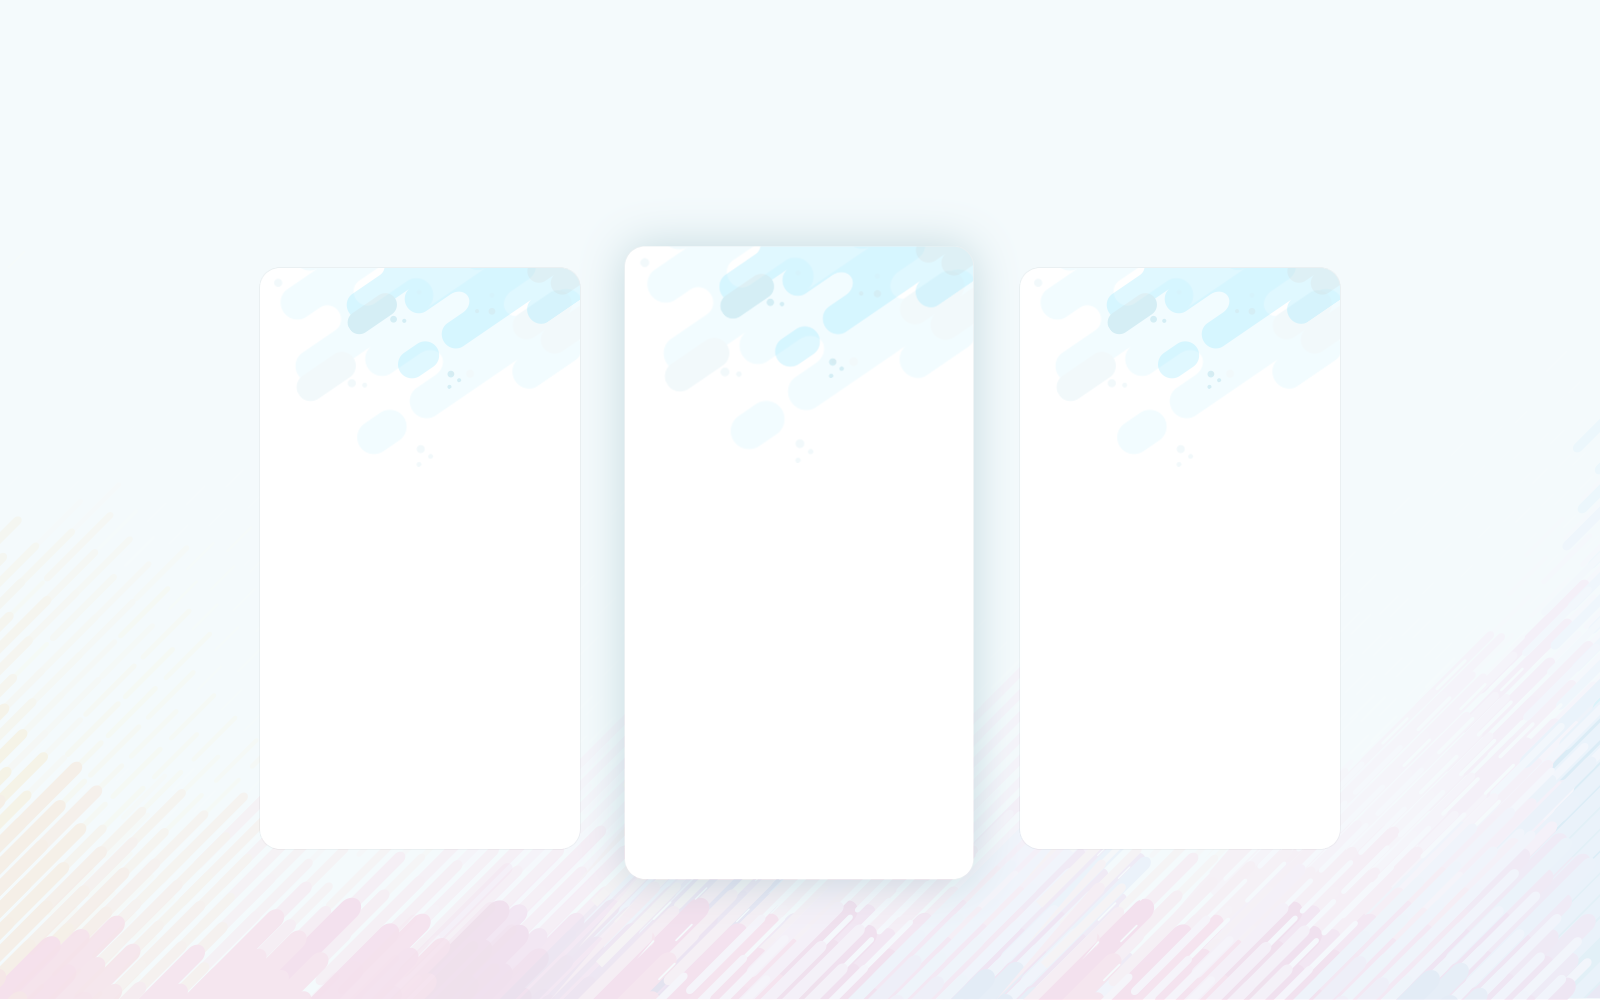
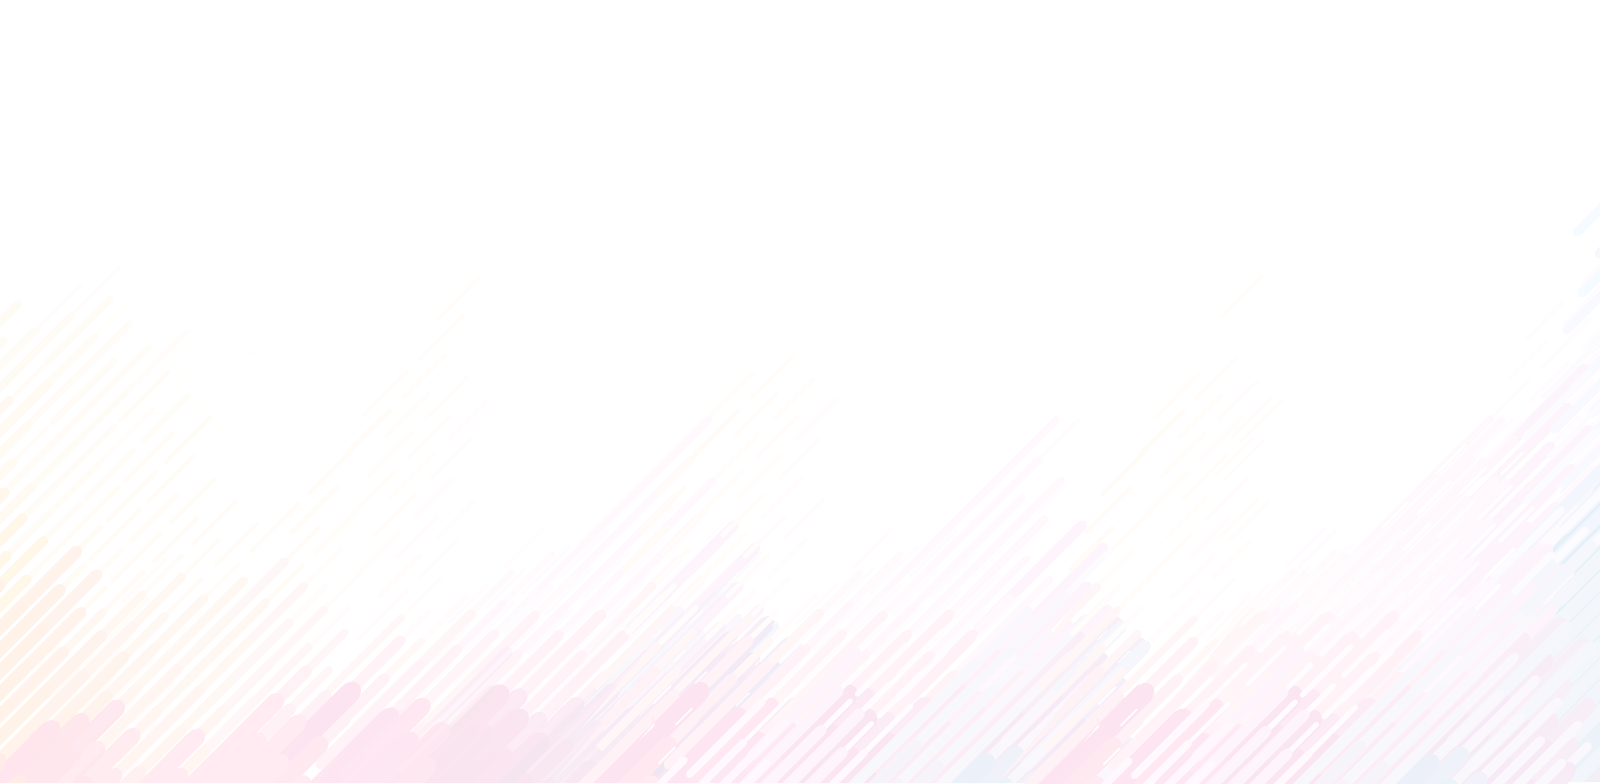
Add price section + add style for section tag

diff --git a/web/index.html b/web/index.html
@@ -12,6 +12,7 @@
 		<link rel="stylesheet" href="css/features.css"/>
 		<link rel="stylesheet" href="css/other-services.css"/>
 		<link rel="stylesheet" href="css/feedbacks.css"/>
+		<link rel="stylesheet" href="css/price.css"/>
 	</head>
 
 	<body>
@@ -81,7 +82,7 @@
 			<!-- Services Section Content -->
 			<div class="section-content">
 
-				<!-- Header of servises section -->
+				<!-- Header of services section -->
 				<div class="section-header">
 					<p>Welcome to<br/><h1>our services</h1></p><separator/>
 				</div>
@@ -151,7 +152,7 @@
 			<!-- Section's Content-->
 			<div class="section-content">
 
-				<!-- Header of other servises section -->
+				<!-- Header of other services section -->
 				<div class="section-header">
 					<p>View Our Latest<br/><h1>Other services</h1></p><separator/>
 				</div>
@@ -234,7 +235,7 @@
 			<!-- Section's Content-->
 			<div class="section-content">
 
-				<!-- Header of other servises section -->
+				<!-- Header of feedbacks section -->
 				<div class="section-header">
 					<p>View Our Latest<br/><h1>Other services</h1></p><separator/>
 				</div>
@@ -279,5 +280,77 @@
 			</div>
 		</section>
 
+		<!-- Price Section -->
+		<section class="price">
+			<!-- Price Background -->
+			<div class="background"></div>
+
+			<!-- Section's Content-->
+			<section class="section-content">
+
+				<!-- Header of other services section -->
+				<div class="section-header">
+					<p>Get Idea About<br/><h1>Pricing plan</h1></p><separator/>
+				</div>
+
+				<!-- Pricing plans -->
+				<div class="pricing-plans-container">
+					<div class="pricing-plan-wrapper">
+						<div class="pricing-plan">
+							<div class="pricing-plan-content">
+								<img src="img/6_price/Book.png" alt="Student pricing plan">
+								<h2>Student</h2>
+								<img class="price-img" src="img/6_price/$39.png" alt="$39 per month">
+								<div class="options-container">
+									<div class="option">6 GB storage</div>
+									<div class="option">Fast Brandwidth</div>
+									<div class="option locked">Responsive</div>
+									<div class="option locked">Customization</div>
+								</div>
+								<div class="button-wrapper">
+									<a href="#" class="button main">Sign up</a>
+								</div>
+							</div>
+						</div>
+					</div>
+					<div class="pricing-plan-wrapper">
+						<div class="pricing-plan">
+							<div class="pricing-plan-content">
+								<img src="img/6_price/bag.png" alt="Professional pricing plan">
+								<h2>Professional</h2>
+								<img class="price-img" src="img/6_price/$59.png" alt="$59 per month">
+								<div class="options-container">
+									<div class="option">6 GB storage</div>
+									<div class="option">Fast Brandwidth</div>
+									<div class="option">Responsive</div>
+									<div class="option locked">Customization</div>
+								</div>
+								<div class="button-wrapper">
+									<a href="#" class="button main">Sign up</a>
+								</div>
+							</div>
+						</div>
+					</div>
+					<div class="pricing-plan-wrapper">
+						<div class="pricing-plan">
+							<div class="pricing-plan-content">
+								<img src="img/6_price/shopping Bag.png" alt="Unlimited pricing plan">
+								<h2>Unlimited</h2>
+								<img class="price-img" src="img/6_price/$99.png" alt="$99 per month">
+								<div class="options-container">
+									<div class="option">6 GB storage</div>
+									<div class="option">Fast Brandwidth</div>
+									<div class="option">Responsive</div>
+									<div class="option">Customization</div>
+								</div>
+								<div class="button-wrapper">
+									<a href="#" class="button main">Sign up</a>
+								</div>
+							</div>
+						</div>
+					</div>
+				</div>
+			</section>
+		</section>
 	</body>
 </html>

diff --git a/web/css/price.css b/web/css/price.css
@@ -1,0 +1,93 @@
+/*#region Price section background*/
+
+.price { background-color: #f4fafc; }
+.price .background {
+    bottom: 0;
+    height: 784px;
+    background-image: url("../img/6_price/bg.png");
+    background-size: cover;
+}
+
+/*#endregion*/
+
+.price .pricing-plans-container {
+    display: flex;
+    flex-wrap: wrap;
+    justify-content: space-evenly;
+    margin-bottom: 100px;
+}
+
+.pricing-plan-wrapper {
+    margin: 20px 20px;
+    min-width: 320px;
+    max-width: 320px;
+    height: 580px;
+    position: relative;
+}
+
+.pricing-plan {
+    /* For growing on mouse over */
+    position: absolute;
+    width: 320px; left: 0px;
+    height: 580px; top: 0px;
+
+    /* Align center pricing plan content*/
+    display: flex;
+    justify-content: center;
+
+    /* Beautify */
+    overflow: hidden;
+    border-radius: 20px;
+    border: 1px solid rgba(0,0,0,0.05);
+    background-image: url("../img/6_price/bgsmall.png");
+    background-repeat: no-repeat;
+    background-size: cover;
+    background-color: #ffffff;
+
+    /* Transition seconds to mouse over */
+    transition: .4s;
+}
+
+/* When mouse over - plan is growing */
+.pricing-plan:hover {
+    width: 350px; margin-left: -15px;
+    height: 630px; margin-top: -25px;
+    filter: drop-shadow(0 0 25.5px rgba(92,149,161,0.33));
+}
+
+/* Style */
+.pricing-plan-content {
+    text-align: center;
+    padding: 30px 0;
+
+    /* Vertical flex container*/
+    display: flex;
+    flex-direction: column;
+    justify-content: space-evenly;
+    align-items: center;
+}
+
+.pricing-plan-content .options-container { 
+    /* 30% of pricing plan content space*/
+    flex-basis: 30%; 
+    margin: 40px 0;
+}
+.pricing-plan-content .button-wrapper {
+    /* 25% of pricing plan content space*/
+    flex-basis: 25%;
+    padding-top: 10px;
+}
+
+.pricing-plan-content .price-img { 
+    margin-left: 20px;
+    max-height: 56px;
+    min-height: 56px;
+}
+
+/* Style options */
+.option {
+    color: #7c7c7c;
+    margin: 10px 0;
+    font-weight: 600;
+}
+.option.locked { color: #c7c7c7; font-weight: 500; }

diff --git a/web/css/style.css b/web/css/style.css
@@ -5,13 +5,25 @@
 	text-decoration: none;
 	font-family: 'Raleway';
 }
-/* All backgrounds cannot be selected by user and images */
+section {
+    position: relative;
+    overflow: hidden;
+}
+/* All backgrounds and images cannot be selected by user */
 .background, img { user-select: none; }
-
+/* Style all background blocks */
+.background {
+/* Absolute to the parent*/
+	position: absolute;
+/* Stretch it to the full size of the parent (section)*/
+	width: 100%;
+	height: 100%;
+}
 /* Inner content of all sections (+ header, footer) */
 .section-content {
 	margin: 0 250px;
     position: relative;
+    overflow: visible;
 }
 
 /* Global h1 style */
@@ -106,8 +118,8 @@ ul li:last-child { margin-bottom: 0; }
     /* Header text alignment */
     text-align: center;
     /* Paddings */
-    padding-top: 100px;
-    padding-bottom: 100px;
+    padding-top: 80px;
+    padding-bottom: 80px;
 }
 
 /* Paragraph of section header */

diff --git a/web/css/features.css b/web/css/features.css
@@ -1,8 +1,3 @@
-.features { 
-    position: relative;
-    overflow: hidden;
-}
-
 /* Make correct margins for some items */
 .features .half-content-r { margin-top: 135px; margin-bottom: 180px; }
 .features ul { margin-top: 50px; margin-bottom: 50px; }
@@ -12,11 +7,6 @@
     Work with back ground as always
 */
 .features .background {
-    /* Stretch background to width and height of parent*/
-    width: 100%;
-    height: 100%;
-    /* Don't touch other elements */
-    position: absolute;
     /* Be behind the body*/
     z-index: -1;
     /* Set background image */

diff --git a/web/css/header.css b/web/css/header.css
@@ -143,10 +143,6 @@ header .header-content .button {
 /*#region Background*/
 
 header > .background {
-    /* Stretch it to the full size of the parent (section)*/
-	position: absolute;
-	width: 100%;
-	height: 100%;
     /* Move backwards to all elements of section */
     z-index: -1;
     /* Set color here, because section color will cover this bg */

diff --git a/web/css/buttons.css b/web/css/buttons.css
@@ -28,6 +28,7 @@
 .button.main {
     width: 150px;
     height: 50px;
+    min-height: 50px;
     border-radius: 25px;
     background-color: #66d4f4;
 }
